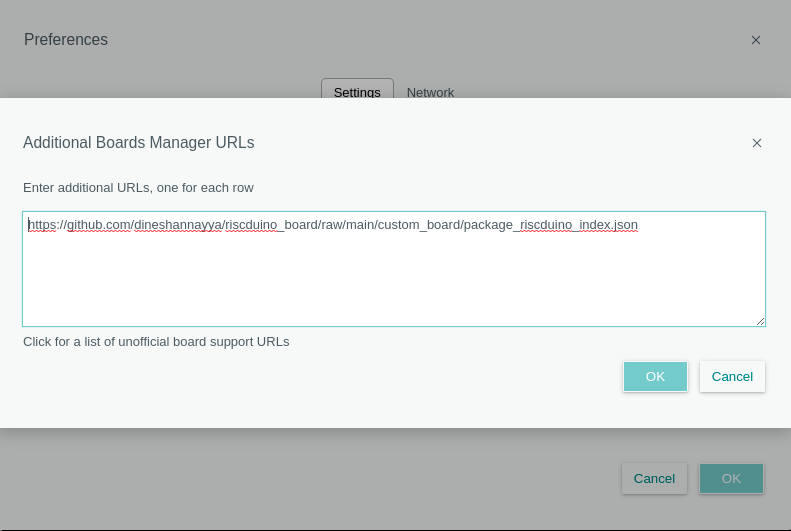
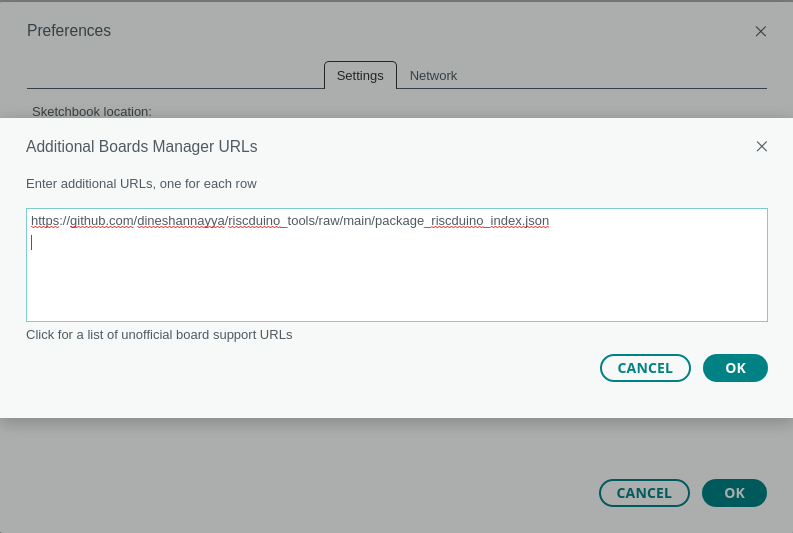
update

diff --git a/README.md b/README.md
@@ -12,11 +12,11 @@ Download and install [Arduino IDE 2.0 tarball] (https://www.arduino.cc/en/softwa
 
 ### Installing Through the Arduino IDE ###
 
-This is supported for macOS and Linux.
+This is supported for Windows and Linux.
 
 1. Open the arduino-ide
 
-2. Go to <File> <Preference>
+2. Go to [File] [Preference]
 <table>
   <tr>
     <td  align="center"><img src="./docs/source/_static/Riscdunio-board-install-0.png" ></td>
@@ -24,7 +24,7 @@ This is supported for macOS and Linux.
 </table>
 
 3. Click on <Additional Board Manager URL>
-   Add the [https://github.com/dineshannayya/riscduino_board/raw/main/custom_board/package_riscduino_index.json](https://github.com/dineshannayya/riscduino_board/raw/main/custom_board/package_riscduino_index.json)  
+   Add the [https://github.com/dineshannayya/riscduino_tools/raw/main/package_riscduino_index.json](https://github.com/dineshannayya/riscduino_tools/raw/main/package_riscduino_index.json)  
 <table>
   <tr>
     <td  align="center"><img src="./docs/source/_static/Riscduino-board-install-1.png" ></td>
